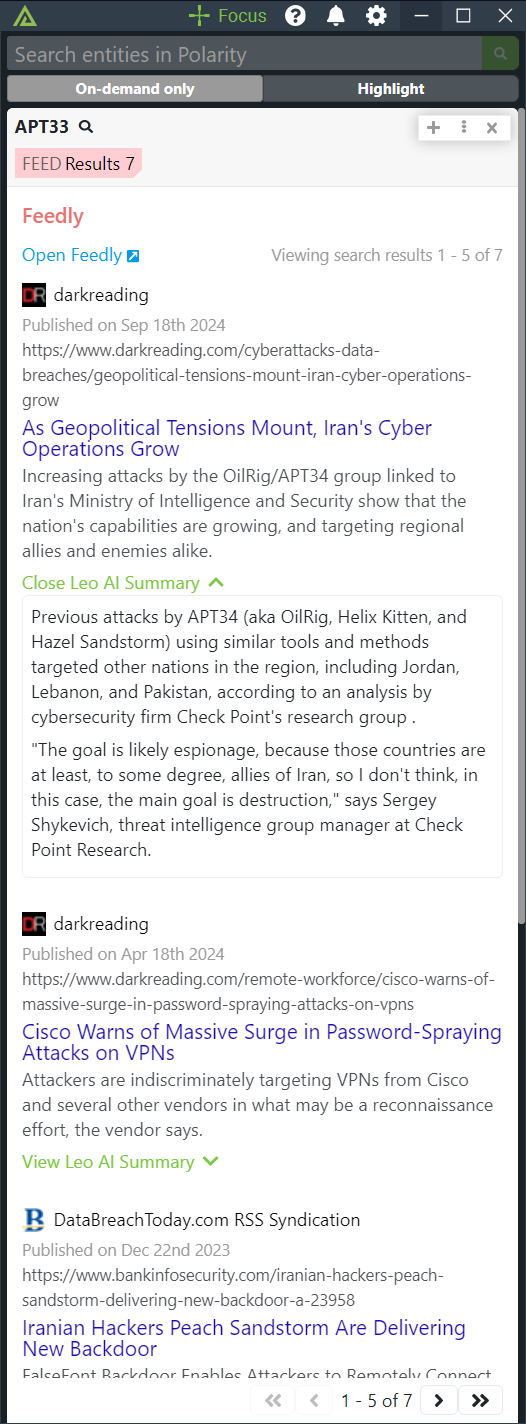
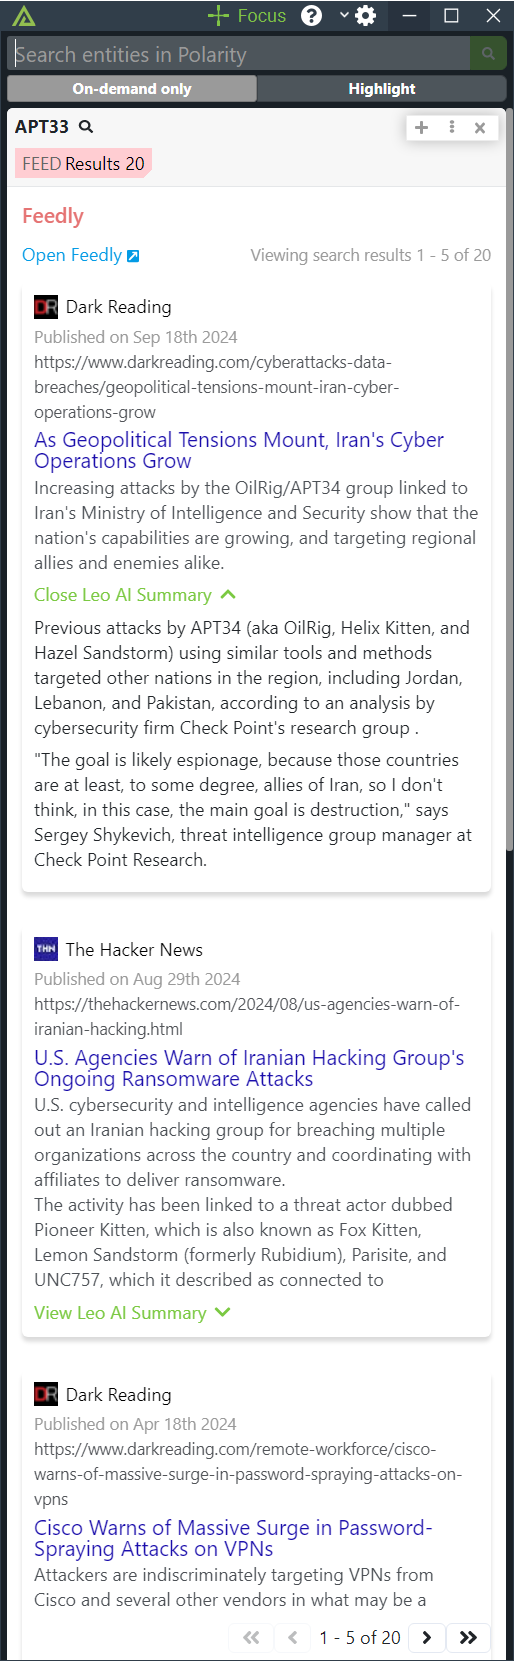
Update screenshot and Leo summary style

diff --git a/styles/styles.less b/styles/styles.less
@@ -18,12 +18,9 @@
 .search-result {
   font-size: 100%;
   font-family: inherit;
-  
-  
   padding: 8px;
   border-radius: 4px;
   background-color: transparent;
-
   box-shadow: rgba(0, 0, 0, 0.15) 0px 3px 3px 0px;
   
   &:hover,
@@ -142,9 +139,7 @@ img {
 }
 
 .leo-summary-container {
-  border: 1px solid #eee;
-  border-radius: 4px;
-  padding: 5px;
+  margin-top: 5px;
   
   .leo-summary {
     margin-bottom: 5px;
